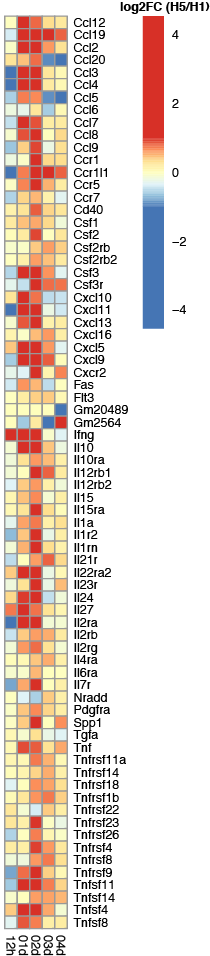
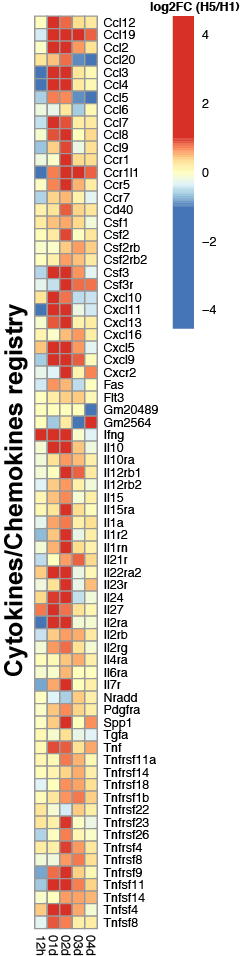
adding R code to generate Fig2C

diff --git a/code/20190423_Fluomics.fig2c.md b/code/20190423_Fluomics.fig2c.md
@@ -1,0 +1,235 @@
+---
+title: R code to generate Figure 2C
+author: Slim Fourati
+date: "23 April, 2019"
+output: github_documents
+---
+
+Load required packages
+
+```r
+suppressPackageStartupMessages(library(package = "knitr"))
+suppressPackageStartupMessages(library(package = "GSEABase"))
+suppressPackageStartupMessages(library(package = "biomaRt"))
+suppressPackageStartupMessages(library(package = "EDASeq"))
+suppressPackageStartupMessages(library(package = "edgeR"))
+suppressPackageStartupMessages(library(package = "pheatmap"))
+suppressPackageStartupMessages(library(package = "gtable"))
+suppressPackageStartupMessages(library(package = "grid"))
+suppressPackageStartupMessages(library(package = "tidyverse"))
+```
+
+Define session options
+
+```r
+workDir <- dirname(getwd())
+opts_chunk$set(tidy = FALSE, fig.path = "../figure/")
+options(stringsAsFactors  = FALSE,
+	readr.num_columns = 0)
+```
+
+Load GSEA output
+
+```r
+load(file = file.path(workDir, "output/fluomics.gseaOutput.RData"))
+```
+
+Read MSigDB genesets description and identify FAS-related genesets
+
+```r
+xmlFile <- file.path(workDir, "utils/msigdb_v6.2.xml")
+msig <- getBroadSets(uri = xmlFile)
+descDF <- sapply(msig, FUN = description) %>%
+  data.frame(DESC = .) %>%
+  mutate(NAME = names(msig))
+
+gsNames <- descDF %>%
+  filter((grepl(pattern = "FAS_", NAME)))
+```
+
+Print FAS-related genesets enriched in H5N1 vs H1N1 at Day 2
+
+```r
+gseaOutput %>%
+  filter(NAME %in% gsNames$NAME & `FDR q-val` <= 0.25) %>%
+  select(NAME, NES, `FDR q-val`, coefName)
+```
+
+```
+##                       NAME      NES  FDR q-val          coefName
+## 1     BIOCARTA_FAS_PATHWAY 1.407258 0.14245783 H5N1.02d-H1N1.02d
+## 2          PID_FAS_PATHWAY 1.383827 0.16033992 H5N1.02d-H1N1.02d
+## 3 ST_FAS_SIGNALING_PATHWAY 1.359979 0.17825767 H5N1.02d-H1N1.02d
+## 4          PID_FAS_PATHWAY 1.494055 0.06099669 H5N1.03d-H1N1.03d
+## 5 ST_FAS_SIGNALING_PATHWAY 1.500724 0.05836793 H5N1.03d-H1N1.03d
+```
+No genesets passed an FDR cutoff of 0.05; a relaxed FDR of 0.25 was used.
+  
+  
+Convert mouse genes to human genes
+
+```r
+humanGenes <- gseaOutput$LEADING_EDGE %>%
+  strsplit(",") %>%
+  unlist() %>%
+  unique()
+human <- useMart("ensembl", dataset = "hsapiens_gene_ensembl")
+mouse <- useMart("ensembl", dataset = "mmusculus_gene_ensembl")
+human2mouse <- getLDS(attributes  = "hgnc_symbol",
+		      filters     = "hgnc_symbol",
+		      values      = humanGenes,
+		      mart        = human,
+		      attributesL = c("ensembl_gene_id", "mgi_symbol"),
+		      martL       = mouse,
+		      uniqueRows  = TRUE)
+```
+
+Load GLMLRT list
+
+```r
+load(file = file.path(workDir, "output/fluomics.fits.RData"))
+```
+
+Identify leading edge genes
+
+```r
+leGenes <- gseaOutput %>%
+  filter(NAME %in% gsNames$NAME & `FDR q-val` <= 0.25)
+leGenes$LEADING_EDGE %>%
+  strsplit(split = ",") %>%
+  setNames(nm = leGenes$NAME) %>%
+  stack() %>%
+  filter(!duplicated(values)) -> leGenes
+leGenes <- merge(x    = leGenes,
+		 y    = human2mouse,
+		 by.x = "values",
+		 by.y = "HGNC.symbol")
+```
+
+Plot heatmap
+
+```r
+fit <- fits[["virus"]][["fit"]]
+top <- NULL
+for (coefName in colnames(fit$contrast)) {
+  topTemp <- glmLRT(glmfit = fit, contrast = fit$contrast[, coefName]) %>%
+    topTags(n = Inf) %>%
+    as.data.frame() %>%
+    rownames_to_column() %>%
+    filter(rowname %in% leGenes$Gene.stable.ID) %>%
+    mutate(coefName = coefName) %>%
+    select(rowname, logFC, coefName)
+  top <- rbind(top, topTemp)
+}
+mat <- top %>%
+  merge(y    = leGenes,
+	by.x = "rowname",
+	by.y = "Gene.stable.ID") %>%
+  mutate(coefName = gsub(pattern = ".+\\.",
+			 replacement = "",
+			 coefName),
+	 coefName = factor(coefName),
+	 coefName = relevel(coefName, ref = "12h")) %>%
+  select(MGI.symbol, logFC, coefName) %>%
+  spread(coefName, logFC) %>%
+  mutate(max = (`03d` > 0)) %>%
+  arrange(max, MGI.symbol) %>%
+  select(-max) %>%
+  column_to_rownames(var = "MGI.symbol")
+
+breakLS <- c(-1 * max(abs(mat)),
+	     seq(from       = -0.5 * min(abs(range(mat))),
+		 to         = 0.5 * min(abs(range(mat))),
+		 length.out = 99),
+	     max(abs(mat)))
+pheat <- pheatmap(mat,
+		  cellwidth    = 8,
+		  breaks       = breakLS,
+		  fontsize_row = 7,
+		  cellheight   = 7,
+		  cluster_rows = FALSE,
+		  cluster_cols = FALSE,
+		  silent       = TRUE)
+colorName <- textGrob(label = "log2FC (H5/H1)",
+                      x     = 0.5,
+                      y     = 1.01,
+                      gp    = gpar(fontface = "bold"))
+pheat$gtable <- gtable_add_grob(pheat$gtable,
+                                 colorName,
+                                 t    = 4,
+                                 l    = 5,
+                                 b    = 5,
+                                 clip = "off",
+                                 name = "colorName")
+grid.draw(pheat$gtable)
+```
+
+![plot of chunk heatmap-macro-fluomics](../figure/heatmap-macro-fluomics-1.png)
+
+Print session info
+
+```r
+sessionInfo()
+```
+
+```
+## R version 3.5.3 (2019-03-11)
+## Platform: x86_64-apple-darwin18.2.0 (64-bit)
+## Running under: macOS Mojave 10.14.4
+## 
+## Matrix products: default
+## BLAS/LAPACK: /usr/local/Cellar/openblas/0.3.5/lib/libopenblasp-r0.3.5.dylib
+## 
+## locale:
+## [1] en_US.UTF-8/en_US.UTF-8/en_US.UTF-8/C/en_US.UTF-8/en_US.UTF-8
+## 
+## attached base packages:
+##  [1] grid      stats4    parallel  stats     graphics  grDevices utils    
+##  [8] datasets  methods   base     
+## 
+## other attached packages:
+##  [1] forcats_0.4.0               stringr_1.4.0              
+##  [3] dplyr_0.8.0.1               purrr_0.3.2                
+##  [5] readr_1.3.1                 tidyr_0.8.3                
+##  [7] tibble_2.1.1                ggplot2_3.1.0              
+##  [9] tidyverse_1.2.1             gtable_0.2.0               
+## [11] pheatmap_1.0.12             edgeR_3.24.3               
+## [13] limma_3.38.3                EDASeq_2.16.3              
+## [15] ShortRead_1.40.0            GenomicAlignments_1.18.1   
+## [17] SummarizedExperiment_1.12.0 DelayedArray_0.8.0         
+## [19] matrixStats_0.54.0          Rsamtools_1.34.1           
+## [21] GenomicRanges_1.34.0        GenomeInfoDb_1.18.2        
+## [23] Biostrings_2.50.2           XVector_0.22.0             
+## [25] BiocParallel_1.16.6         biomaRt_2.38.0             
+## [27] GSEABase_1.44.0             graph_1.60.0               
+## [29] annotate_1.60.1             XML_3.98-1.19              
+## [31] AnnotationDbi_1.44.0        IRanges_2.16.0             
+## [33] S4Vectors_0.20.1            Biobase_2.42.0             
+## [35] BiocGenerics_0.28.0         knitr_1.22                 
+## 
+## loaded via a namespace (and not attached):
+##  [1] nlme_3.1-137           bitops_1.0-6           lubridate_1.7.4       
+##  [4] bit64_0.9-7            RColorBrewer_1.1-2     progress_1.2.0        
+##  [7] httr_1.4.0             tools_3.5.3            backports_1.1.3       
+## [10] R6_2.4.0               lazyeval_0.2.2         DBI_1.0.0             
+## [13] colorspace_1.4-1       withr_2.1.2            tidyselect_0.2.5      
+## [16] prettyunits_1.0.2      curl_3.3               bit_1.1-14            
+## [19] compiler_3.5.3         cli_1.1.0              rvest_0.3.2           
+## [22] xml2_1.2.0             rtracklayer_1.42.2     scales_1.0.0          
+## [25] genefilter_1.64.0      DESeq_1.34.1           digest_0.6.18         
+## [28] R.utils_2.8.0          pkgconfig_2.0.2        highr_0.7             
+## [31] readxl_1.3.1           rlang_0.3.1            rstudioapi_0.9.0      
+## [34] RSQLite_2.1.1          generics_0.0.2         jsonlite_1.6          
+## [37] hwriter_1.3.2          R.oo_1.22.0            RCurl_1.95-4.12       
+## [40] magrittr_1.5           GenomeInfoDbData_1.2.0 Matrix_1.2-15         
+## [43] Rcpp_1.0.1             munsell_0.5.0          R.methodsS3_1.7.1     
+## [46] stringi_1.4.3          zlibbioc_1.28.0        plyr_1.8.4            
+## [49] blob_1.1.1             crayon_1.3.4           lattice_0.20-38       
+## [52] haven_2.1.0            splines_3.5.3          GenomicFeatures_1.34.6
+## [55] hms_0.4.2              locfit_1.5-9.1         pillar_1.3.1          
+## [58] geneplotter_1.60.0     glue_1.3.1             evaluate_0.13         
+## [61] latticeExtra_0.6-28    modelr_0.1.4           cellranger_1.1.0      
+## [64] assertthat_0.2.0       xfun_0.5               aroma.light_3.12.0    
+## [67] xtable_1.8-3           broom_0.5.1            survival_2.43-3       
+## [70] memoise_1.1.0
+```

diff --git a/code/20190408_Fluomics.fig1d.md b/code/20190408_Fluomics.fig1d.md
@@ -1,7 +1,7 @@
 ---
 title: R code to generate Figure 1D
 author: Slim Fourati
-date: "10 April, 2019"
+date: "23 April, 2019"
 output: github_documents
 ---
 
@@ -13,6 +13,7 @@ suppressPackageStartupMessages(library(package = "biomaRt"))
 suppressPackageStartupMessages(library(package = "pheatmap"))
 suppressPackageStartupMessages(library(package = "gtable"))
 suppressPackageStartupMessages(library(package = "grid"))
+suppressPackageStartupMessages(library(package = "edgeR"))
 suppressPackageStartupMessages(library(package = "tidyverse"))
 ```
 
@@ -34,6 +35,18 @@ Load GSEA output
 
 ```r
 load(file = file.path(workDir, "output/fluomics.gseaOutput.RData"))
+# print significant association between cytokines and H5 vs H1 diff.
+filter(gseaOutput, NAME %in% "CYTOKINE_REGISTRY") %>%
+  filter(`FDR q-val` <= 0.05) %>%
+  select(coefName, NAME, NES , `NOM p-val`, `FDR q-val`) %>%
+  print()
+```
+
+```
+##            coefName              NAME       NES   NOM p-val   FDR q-val
+## 1 H5N1.01d-H1N1.01d CYTOKINE_REGISTRY  2.671809 0.000000000 0.000000000
+## 2 H5N1.02d-H1N1.02d CYTOKINE_REGISTRY  1.881007 0.000000000 0.000000000
+## 3 H5N1.12h-H1N1.12h CYTOKINE_REGISTRY -1.604650 0.001042753 0.001042753
 ```
 
 Plot heatmap of leading edge genes
@@ -43,23 +56,10 @@ Plot heatmap of leading edge genes
 fit <- fits[["virus"]][["fit"]]
 # convert mouse genes to human genes
 human <- useMart(biomart = "ensembl",
-                 host    = "useast.ensembl.org",
                  dataset = "hsapiens_gene_ensembl")
 mouse <- useMart(biomart = "ensembl",
-                 host    = "useast.ensembl.org",
                  dataset = "mmusculus_gene_ensembl")
 mouseGeneIds <- rownames(fit)
-```
-
-```
-## Loading required package: edgeR
-```
-
-```
-## Loading required package: limma
-```
-
-```r
 mouse2human <- getLDS(attributes  = c("mgi_symbol", "ensembl_gene_id"),
                       filters     = "ensembl_gene_id",
                       values      = mouseGeneIds,
@@ -147,13 +147,13 @@ sessionInfo()
 ## [8] base     
 ## 
 ## other attached packages:
-##  [1] edgeR_3.24.3    limma_3.38.3    forcats_0.4.0   stringr_1.4.0  
-##  [5] dplyr_0.8.0.1   purrr_0.3.2     readr_1.3.1     tidyr_0.8.3    
-##  [9] tibble_2.1.1    ggplot2_3.1.0   tidyverse_1.2.1 gtable_0.2.0   
+##  [1] forcats_0.4.0   stringr_1.4.0   dplyr_0.8.0.1   purrr_0.3.2    
+##  [5] readr_1.3.1     tidyr_0.8.3     tibble_2.1.1    ggplot2_3.1.0  
+##  [9] tidyverse_1.2.1 edgeR_3.24.3    limma_3.38.3    gtable_0.2.0   
 ## [13] pheatmap_1.0.12 biomaRt_2.38.0  knitr_1.22     
 ## 
 ## loaded via a namespace (and not attached):
-##  [1] locfit_1.5-9.1       Rcpp_1.0.1           lubridate_1.7.4     
+##  [1] Rcpp_1.0.1           locfit_1.5-9.1       lubridate_1.7.4     
 ##  [4] lattice_0.20-38      prettyunits_1.0.2    assertthat_0.2.0    
 ##  [7] digest_0.6.18        R6_2.4.0             cellranger_1.1.0    
 ## [10] plyr_1.8.4           backports_1.1.3      stats4_3.5.3        
@@ -165,7 +165,7 @@ sessionInfo()
 ## [28] munsell_0.5.0        broom_0.5.1          compiler_3.5.3      
 ## [31] modelr_0.1.4         xfun_0.5             pkgconfig_2.0.2     
 ## [34] BiocGenerics_0.28.0  tidyselect_0.2.5     IRanges_2.16.0      
-## [37] XML_3.98-1.19        crayon_1.3.4         withr_2.1.2         
+## [37] XML_3.98-1.19        withr_2.1.2          crayon_1.3.4        
 ## [40] bitops_1.0-6         nlme_3.1-137         jsonlite_1.6        
 ## [43] DBI_1.0.0            magrittr_1.5         scales_1.0.0        
 ## [46] cli_1.1.0            stringi_1.4.3        xml2_1.2.0          

diff --git a/README.md b/README.md
@@ -1,10 +1,10 @@
 # FluOMICS lung: source code #
 
 ## List of figures:
-[Fig. 1A](#fig-1a), [Fig. 1D](#fig-1d), [Fig. 2A](#fig-2a), [Fig. 2B](#fig-2b)  
+[Fig. 1A](#fig-1a), [Fig. 1D](#fig-1d), [Fig. 2A](#fig-2a), [Fig. 2B](#fig-2b), [Fig. 2C](#fig-2c)  
 
 ### Fig. 1A
-![Fig. 1A](figure/Fig1A.png)
+![Fig. 1A](figure/Fig1A.png)  
 Fig. 1A: [R code [MD]](code/20190408_Fluomics.fig1a.md), [Input file [RDA]](output/fluomics.gseaOutput.RData)  
 
 ### Fig. 1D
@@ -17,7 +17,11 @@ Fig. 2A: [R code [MD]](code/20190412_Fluomics.fig2a.md), [Input files [RDA]](out
 
 ### Fig. 2B
 ![Fig. 2B](figure/Fig2B.png)  
-Fig. 2A: [R code [MD]](code/20190412_Fluomics.fig2b.md), [Input files [TSV]](utils/Macrophage.gmt)  
+Fig. 2B: [R code [MD]](code/20190412_Fluomics.fig2b.md), [Input files [TSV]](utils/Macrophage.gmt)  
+
+### Fig. 2C
+![Fig. 2C](figure/Fig2C.png)  
+Fig. 2C: [R·code·[MD]](code/20190423_Fluomics.fig2c.md)  
 
 
 ## Supplemental material:

diff --git a/code/20190408_Fluomics.geneset_analysis.md b/code/20190408_Fluomics.geneset_analysis.md
@@ -1,7 +1,7 @@
 ---
 title: FluOMICS lung geneset analysis
 author: Slim Fourati
-date: "16 April, 2019" 
+date: "20 April, 2019" 
 output: github_documents
 ---
 
@@ -121,7 +121,7 @@ run preranked GSEA
 
 ```r
 # generate GSEA command line call
-gseaJava <- "java -Xmx2G -cp"
+gseaJava <- "java -Xmx4G -cp"
 gseaIndex <- lapply(rnkList[, "rnk"], FUN = function(gseaRnk) {
   gseaTemp <- lapply(gmtFiles, FUN = function(gmtFile) {
     logFileName <- gsub(pattern = "rnk$", replacement = "log", gseaRnk)
